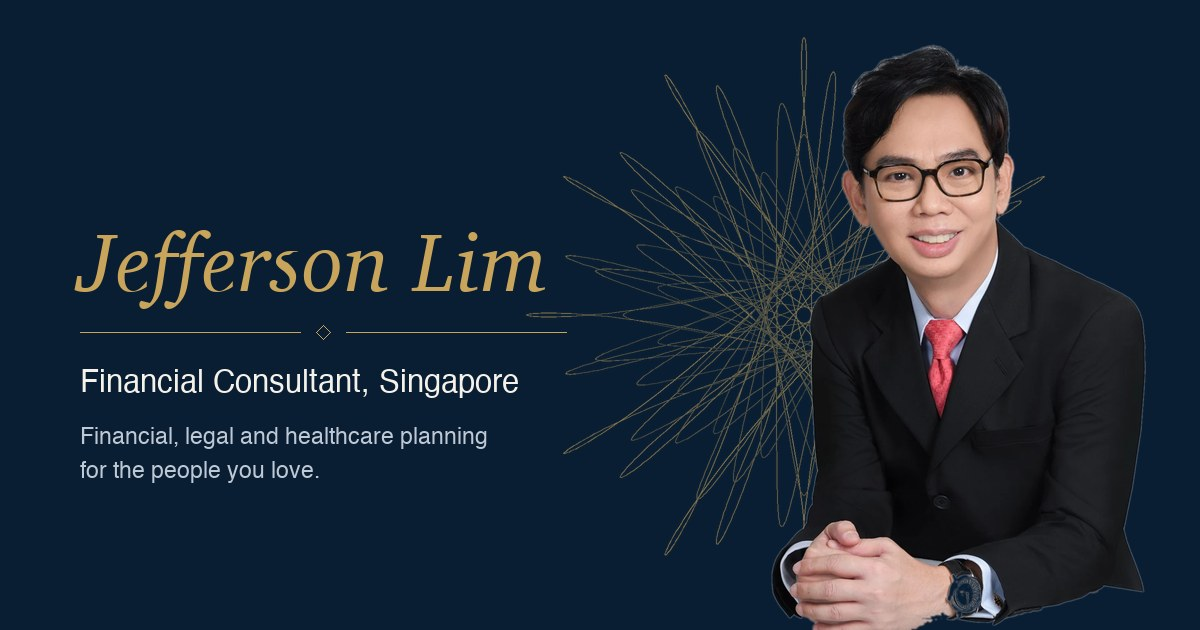
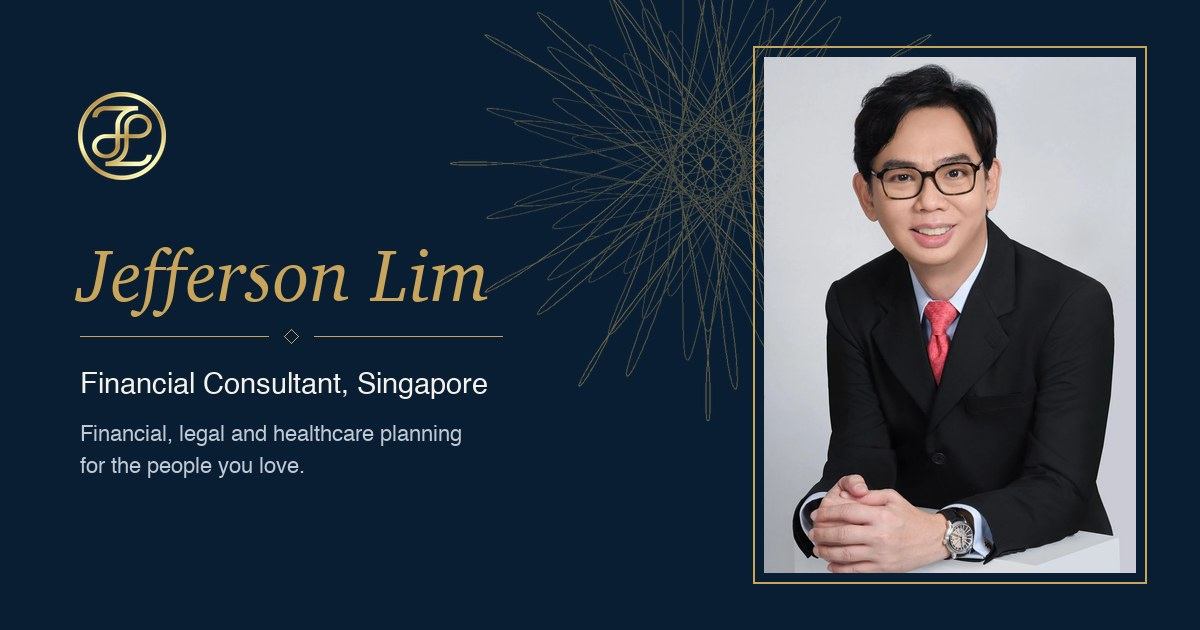
Use Jefferson's own JL monogram throughout
Replaces the placeholder mark I drew with his real artwork. It carries a gold
gradient, so it ships as a transparent raster at 384px rather than being
redrawn as flat SVG, which would have lost the gradient. Trimmed to its
content box and squared so the ring never renders as an ellipse.

Appears in the navigation, the footer, the closing seal on each page, the ad
landing page, and the share card.

Favicons now come from the same artwork: favicon.ico at 16/32/48 and a 180px
apple-touch-icon, which also closes the missing raster fallback the SEO audit
flagged. The generic favicon.svg is gone.

The share card portrait is now framed rather than bleeding off the edge. With
the photograph uncropped, bleeding it left a hard grey block against the navy.

diff --git a/DESIGN.md b/DESIGN.md
@@ -56,6 +56,14 @@ Carried by **gold hairlines, not boxes**.
 
 Same-size icon-heading-text cards are not the page structure anywhere. The Six Areas grid is a ruled table (`gap-px` over a gold ground); the Wealth Pyramid and the five pillars are hairline-separated schedules.
 
+## The monogram
+
+Jefferson's own JL mark, supplied as artwork. It carries a gold gradient, so it ships as a transparent raster (`public/jl-monogram.webp`, 384px) rather than being redrawn as flat SVG, which would lose the gradient.
+
+It appears in the navigation, the footer, the closing seal on each page, the ad landing page, the share card, and as the favicon. `src/components/Monogram.astro` wraps it; give the `title` prop only when the mark is the sole content of a link.
+
+Favicons are generated from the same artwork: `favicon.ico` (16/32/48) and `apple-touch-icon.png` (180). The gold reads on both light and dark browser chrome.
+
 ## Guilloché
 
 `src/components/Guilloche.astro` computes real hypotrochoid geometry at build time — a rolling circle of 7 against fixed radii coprime to it, giving each ring a different petal count and the moiré depth real engine-turning has. No runtime JS, crisp at any size.
